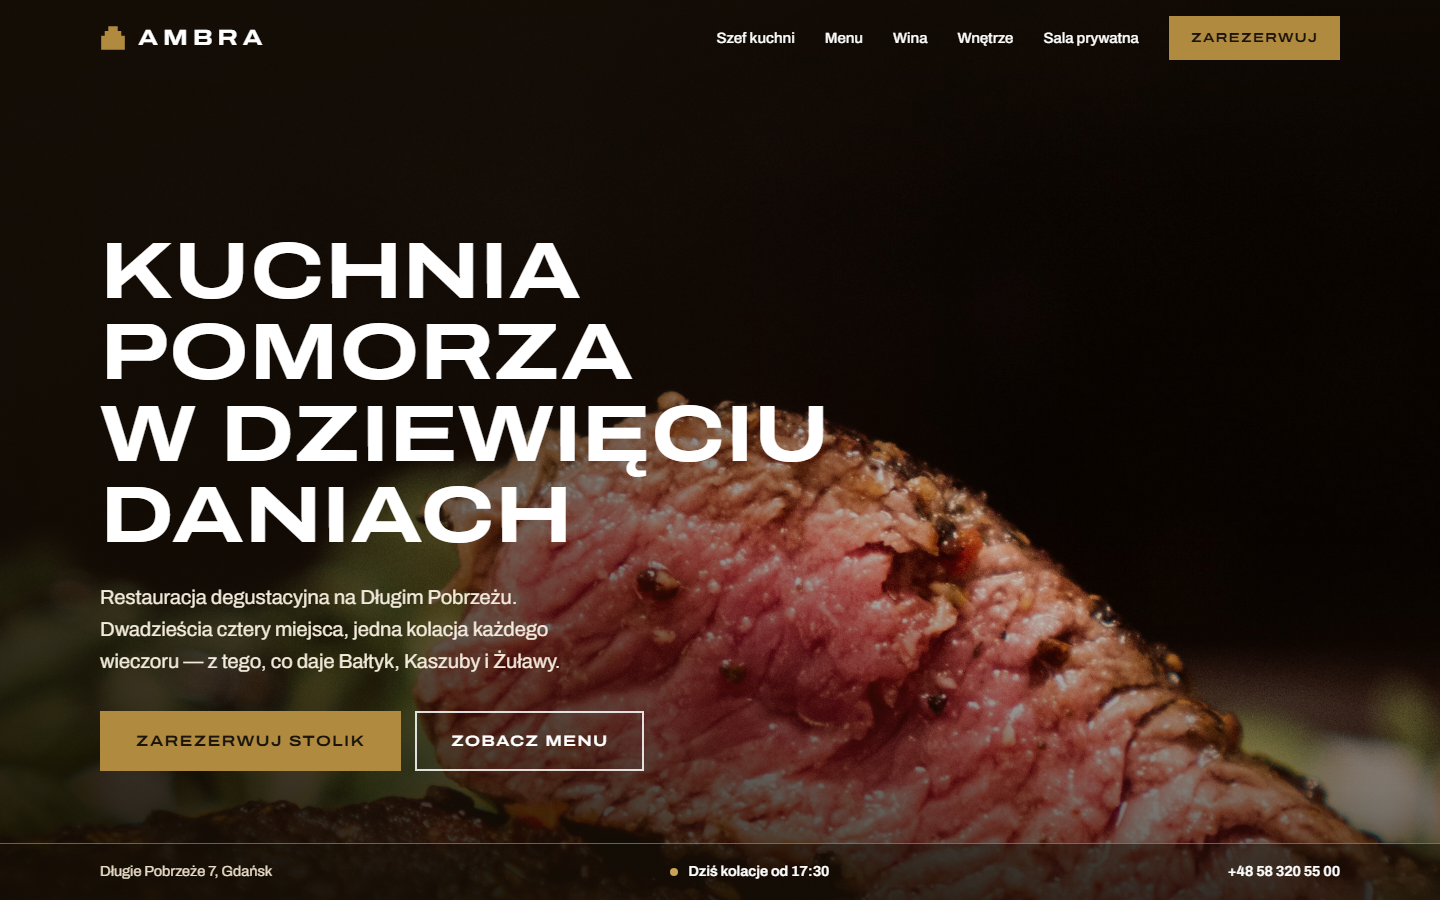
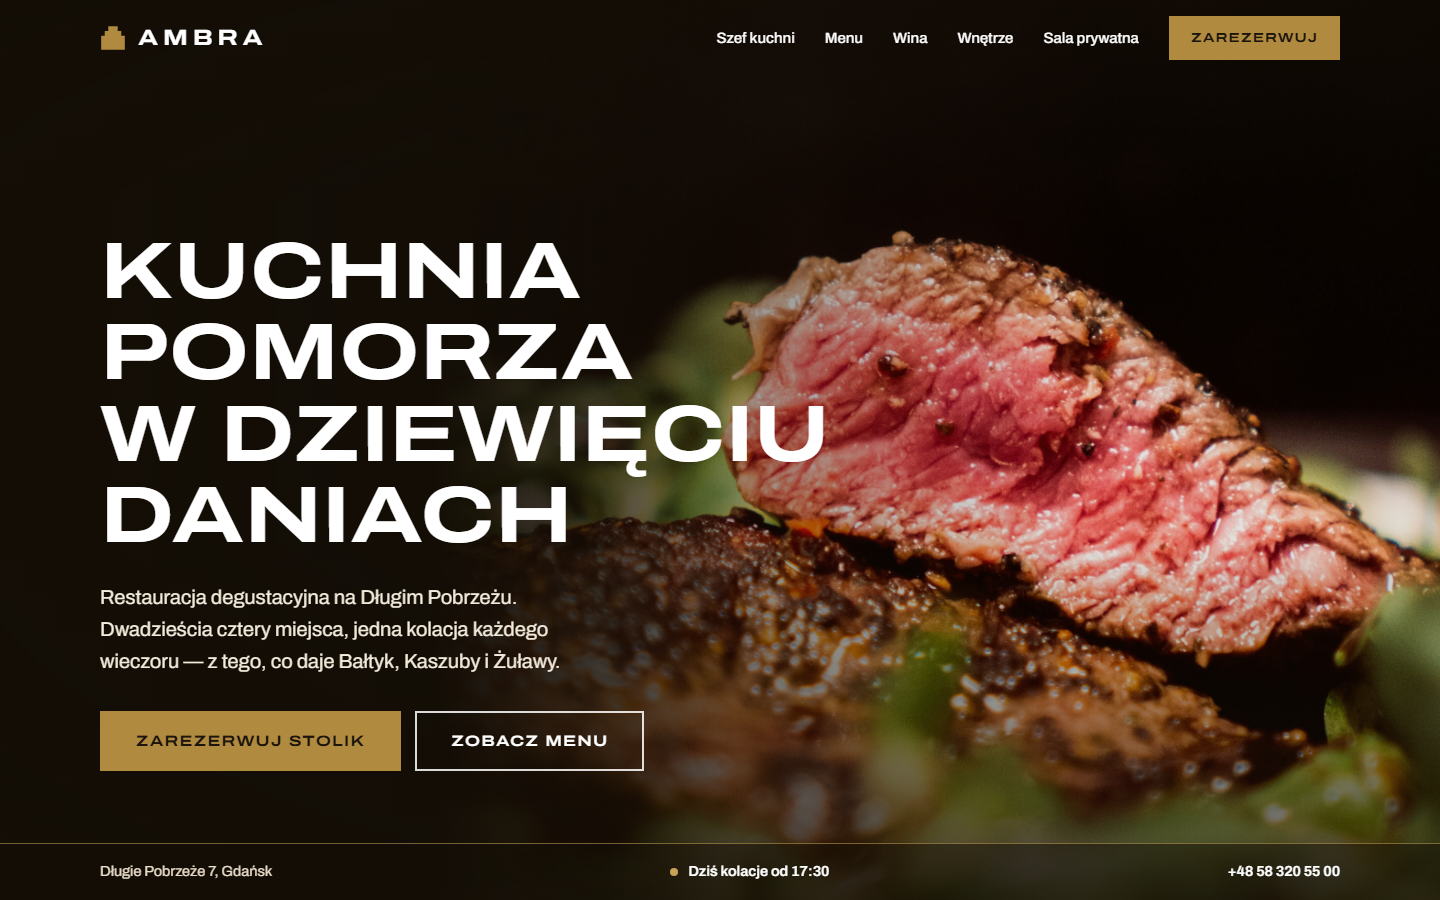
Hero: zdjęcie po prawej z płynnym przejściem w tło, tekst na ciemnym polu

diff --git a/style.css b/style.css
@@ -75,8 +75,9 @@ section { padding-block: clamp(72px, 9vw, 128px); }
 /* hero */
 .hero { position: relative; min-height: 100vh; min-height: 100svh; display: flex; flex-direction: column; justify-content: flex-end; padding: calc(var(--header) + 40px) 0 0; color: #fff; isolation: isolate; overflow: hidden; }
 .hero__bg { position: absolute; inset: 0; z-index: -2; }
-.hero__bg img { width: 100%; height: 100%; object-fit: cover; object-position: 75% 50%; animation: settle 2.4s var(--ease) both; }
-@keyframes settle { from { transform: scale(1.08); } }
+.hero__bg { background: #120d07; }
+.hero__bg img { position: absolute; top: 0; right: 0; width: 70%; height: 100%; object-fit: cover; object-position: 35% 70%; animation: settle 2.4s var(--ease) both; -webkit-mask-image: linear-gradient(90deg, transparent 0, #000 30%); mask-image: linear-gradient(90deg, transparent 0, #000 30%); }
+@keyframes settle { from { transform: scale(1.06); } }
 .hero::before { content: ""; position: absolute; inset: 0; z-index: -1; background: linear-gradient(90deg, rgba(20, 14, 6, .82) 0%, rgba(20, 14, 6, .55) 42%, rgba(20, 14, 6, .1) 75%), linear-gradient(0deg, rgba(20, 14, 6, .7) 0%, rgba(20, 14, 6, 0) 40%), linear-gradient(180deg, rgba(20, 14, 6, .55) 0%, rgba(20, 14, 6, 0) 22%); }
 .hero__in { padding-bottom: clamp(40px, 6vw, 72px); }
 .hero h1 { font-size: clamp(38px, 5.6vw, 80px); font-weight: 700; line-height: 1.02; letter-spacing: -.005em; margin: 0 0 24px; max-width: 10.5em; text-wrap: balance; }
@@ -267,7 +268,7 @@ legend { display: flex; align-items: center; gap: 12px; padding: 0; margin-botto
   .brand span { font-size: 19px; }
   .hero { padding-top: calc(var(--header) + 24px); }
   .hero::before { background: linear-gradient(0deg, rgba(20, 14, 6, .92) 0%, rgba(20, 14, 6, .7) 45%, rgba(20, 14, 6, .2) 75%), linear-gradient(180deg, rgba(20, 14, 6, .6) 0%, rgba(20, 14, 6, 0) 25%); }
-  .hero__bg img { object-position: 72% 50%; }
+  .hero__bg img { width: 100%; object-position: 72% 50%; -webkit-mask-image: none; mask-image: none; }
   .hero h1 { font-size: clamp(30px, 8.6vw, 40px); }
   .hero__lead { margin-bottom: 26px; }
   .hero__cta { flex-direction: column; }

diff --git a/index.html b/index.html
@@ -13,7 +13,7 @@
 <link rel="preconnect" href="https://fonts.googleapis.com">
 <link rel="preconnect" href="https://fonts.gstatic.com" crossorigin>
 <link href="https://fonts.googleapis.com/css2?family=Archivo:wdth,wght@100,400;100,500;100,600;100,700;125,500;125,600;125,700&display=swap" rel="stylesheet">
-<link rel="stylesheet" href="style.css?v=11">
+<link rel="stylesheet" href="style.css?v=12">
 </head>
 <body>
 <!--
